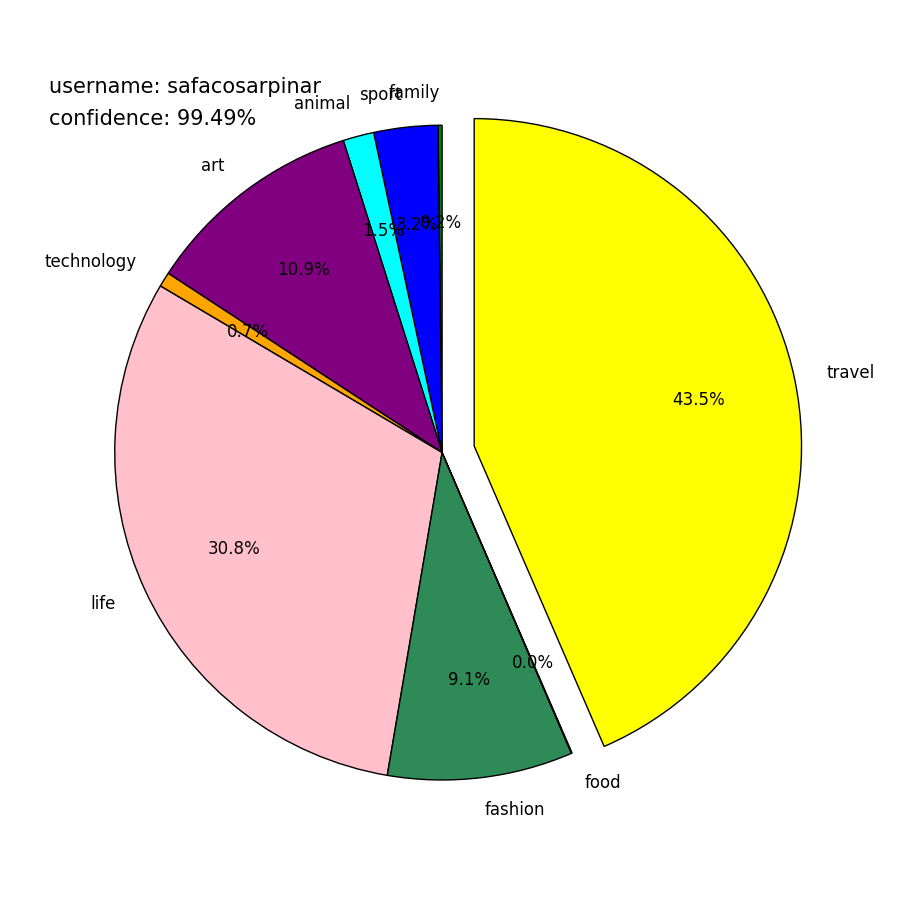
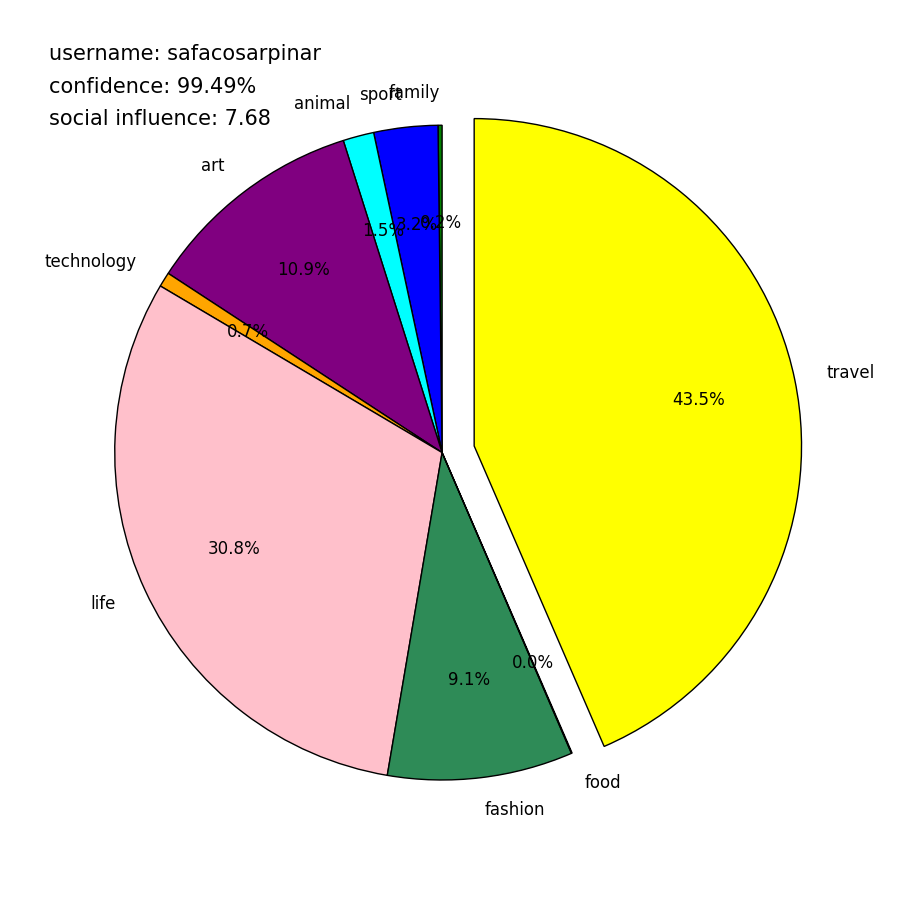
finish analyzing social influence and merge it to the user_analysis

Changed region(s): [[0.0622, 0.0311, 0.3422, 0.1556]]

diff --git a/examples/user_interest_analysis/user_analysis.py b/examples/user_interest_analysis/user_analysis.py
@@ -4,6 +4,7 @@ from nltk.corpus import words
 from nltk.corpus import wordnet as wn
 from nltk.corpus import wordnet_ic
 from matplotlib import pyplot as plt
+import math
 
 
 def store_tag_data(name, tag_data):
@@ -26,7 +27,7 @@ def get_data(my_spider, name):
     if os.path.isfile(file_name):
         tag_data = load_tag_data(name)
     else:
-        tag_data = my_spider.get_all_tag_from_user(name)
+        tag_data = my_spider.get_tag_from_user(name)
         store_tag_data(name, tag_data)
     return tag_data
 
@@ -38,6 +39,33 @@ def clean_up_string(old_string):
         if char in characters:
             new_string += char
     return new_string.lower()
+
+
+def get_user_influence_power(user):
+    print('start to analyze the social influence power of this user...')
+    data = spider.get_user_data(user)
+    follower_number = data['followed_by']['count']
+    media_list = spider.get_media_from_user(user)
+    likes_number = 0
+    current_number = 0
+    tags_number = 0
+    for media in media_list:
+        current_number += 1
+        print('analyzing user media: ' + media + '(' + str(current_number) + '/20)')
+        media_data = spider.get_media_data(media)
+        likes_number += media_data['likes']['count']
+        tags_list = spider.get_tag_from_media(media)
+        tags_number += len(tags_list)
+    likes_number /= len(media_list)
+    tags_number /= len(media_list)
+    quality = follower_number*0.000525 + likes_number*0.989 - tags_number*6.32
+    if quality < 0:
+        quality = 0
+    if quality > 10000:
+        quality = 10000
+    if follower_number > 1000000:
+        follower_number = 1000000
+    return math.log(quality*follower_number, 10)
 
 
 def successful_rate(successful_list, fail_list):
@@ -95,8 +123,10 @@ def display_result(data_dict, confidence, username):
     for t in p_text:
         t.set_size = 4
     plt.axis('equal')
-    plt.text(-1.2, 1.1, 'username: ' + username, fontsize=15)
-    plt.text(-1.2, 1, 'confidence: %.2f%%' % (confidence * 100), fontsize=15)
+    user_influence = round(get_user_influence_power(username), 2)
+    plt.text(-1.2, 1.2, 'username: ' + username, fontsize=15)
+    plt.text(-1.2, 1.1, 'confidence: %.2f%%' % (confidence * 100), fontsize=15)
+    plt.text(-1.2, 1, 'social influence: ' + str(user_influence), fontsize=15)
     file_name = 'user_analysis_result/' + username + '_analysis.png'
     plt.savefig(file_name, format='png')
     plt.show()
@@ -115,15 +145,7 @@ def combine_dictionary(official_word_list, dictionary):
 def tag2word(tag_list):
     result_list = list()
     unsolved_list = list()
-    one_tenth = int(len(tag_list)/10)
-    current_number = 0
-    progress = 0
     for tag_pair in tag_list:
-        current_number += 1
-        if current_number > one_tenth:
-            progress += 1
-            current_number = 0
-            print('finish ' + str(progress) + '0%')
         tag = clean_up_string(tag_pair[0]).lower()
         tag = clean_up_string(tag)
         pos = len(tag)
@@ -236,9 +258,6 @@ my_dictionary = load_dictionary('Instagram_tag_dictionary.json')
 
 wordlist = combine_dictionary(wordlist, my_dictionary)
 spider = InstagramSpider()
-# username = 'hongming0611'
-# password = input('hi, ' + username + 'please give me your password: ')
-# spider.login(username, password)
 data = get_data(spider, test_username)
 print('data got...')
 print('analyzing tags from user: ' + test_username)
@@ -250,7 +269,6 @@ result, rate, distribute_result, percentage_result = analyze_words(my_words=word
 print("successful rate of fitting words into dictionary is：%.2f%%" % (rate * 100))
 print('similarity result: ')
 print(result)
-print(distribute_result['unknown'])
 recognize_rate = 1-percentage_result['unknown']
 print("our machine's current recognize rate is：%.2f%%" % (recognize_rate * 100))
 display_result(data_dict=percentage_result, confidence=recognize_rate, username=test_username)

diff --git a/examples/user_social_influence_analysis/user_social_influence_analysis.py b/examples/user_social_influence_analysis/user_social_influence_analysis.py
@@ -1,6 +1,9 @@
 from Instagram_Spider import *
 import time
 from sklearn import linear_model
+from pandas import Series, DataFrame
+import pandas as pd
+from sklearn import svm
 
 
 spider = InstagramSpider()
@@ -8,13 +11,59 @@ sample_user_name = 'yy_god'
 sample_private_user_name = 'sretiqa'
 sample_public_user_name = 'silisunglasses'
 
-
-# clf = linear_model.LinearRegression()
-file = open('user_data.json', 'r')
-data_list = json.load(file)
+file = open('train_data.json', 'r')
+train_data = json.load(file)
+file.close()
+file = open('test_data.json', 'r')
+test_data = json.load(file)
 file.close()
 
-for data in data_list:
-    print(data)
+my_frame = DataFrame(train_data)
+training_result = list(my_frame['likes_result'])
+del my_frame['likes_result']
+del my_frame['is_verified']
+del my_frame['username']
+del my_frame['comments_result']
+del my_frame['follows_number']
+del my_frame['comments_number']
+del my_frame['biography_length']
+del my_frame['posts_number']
+del my_frame['info_number']
+training_set = list()
+print(my_frame)
+for number in range(0, 600):
+    tmp = my_frame.ix[number]
+    training_set.append(list(tmp))
+
+my_test_frame = DataFrame(test_data)
+test_result = list(my_test_frame['likes_result'])
+del my_test_frame['likes_result']
+del my_test_frame['is_verified']
+del my_test_frame['username']
+del my_test_frame['comments_result']
+del my_test_frame['follows_number']
+del my_test_frame['comments_number']
+del my_test_frame['biography_length']
+del my_test_frame['posts_number']
+del my_test_frame['info_number']
+test_set = list()
+for number in range(0, 200):
+    tmp = my_test_frame.ix[number]
+    test_set.append(list(tmp))
+
+clf = linear_model.LinearRegression(fit_intercept=False)
+clf.fit(training_set, training_result)
+predict_result = clf.predict(test_set)
+score = clf.score(test_set, test_result)
+
+print(test_set)
+print('coeficient: ')
+print(clf.coef_)
+print('Real result: ')
+print(test_result)
+print('Predict result: ')
+print(predict_result)
+print('Score: ')
+print(score)
 
 print('end')
